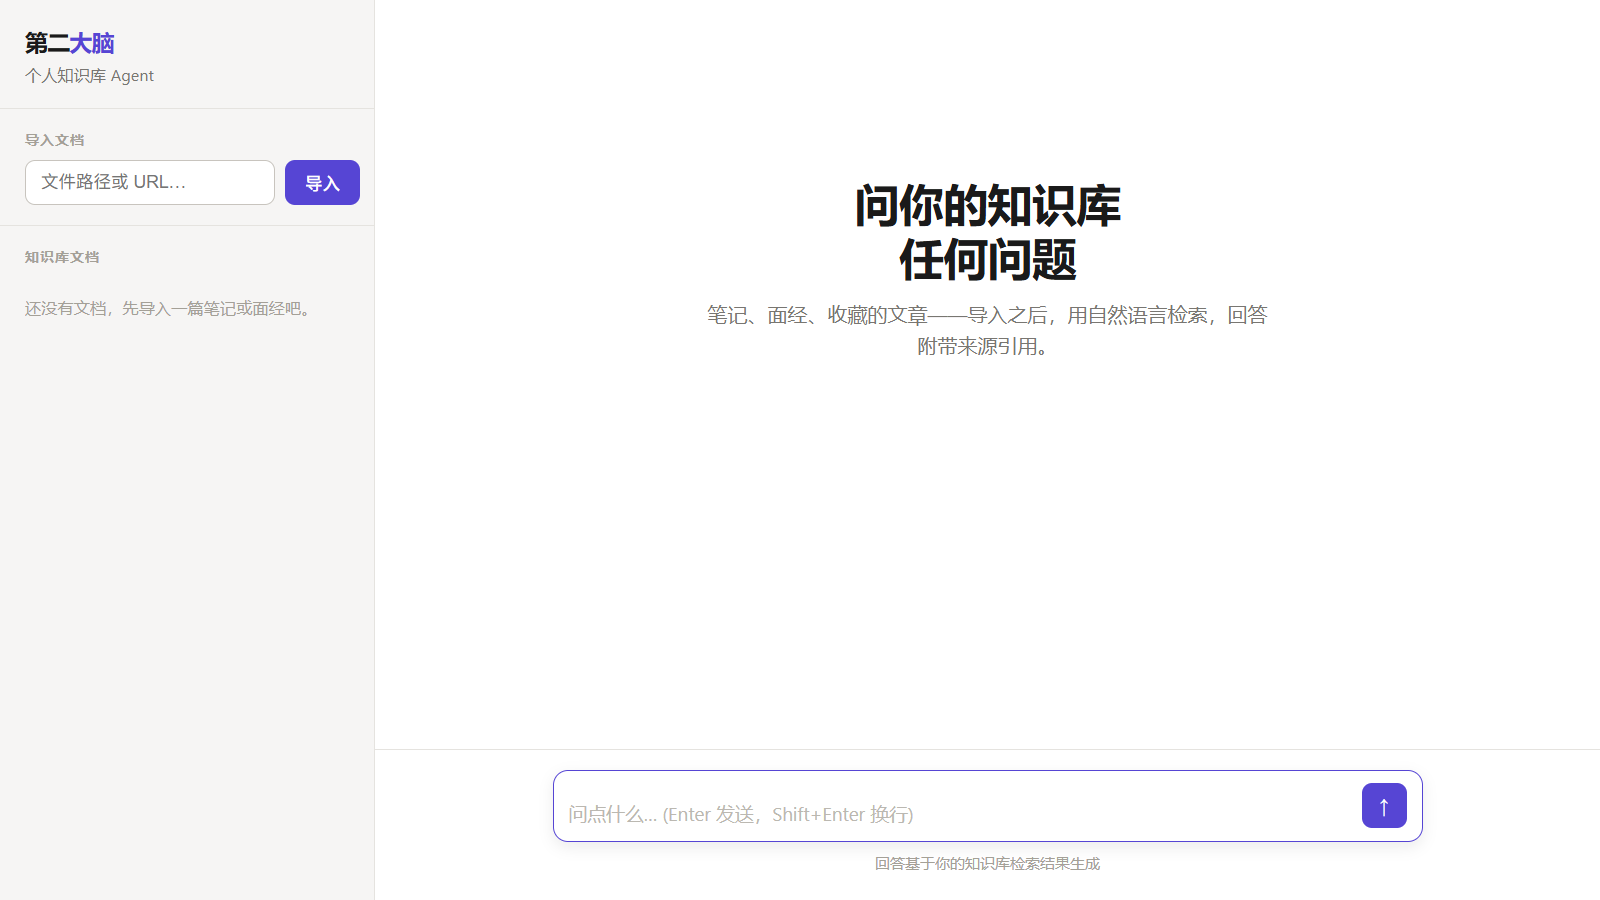
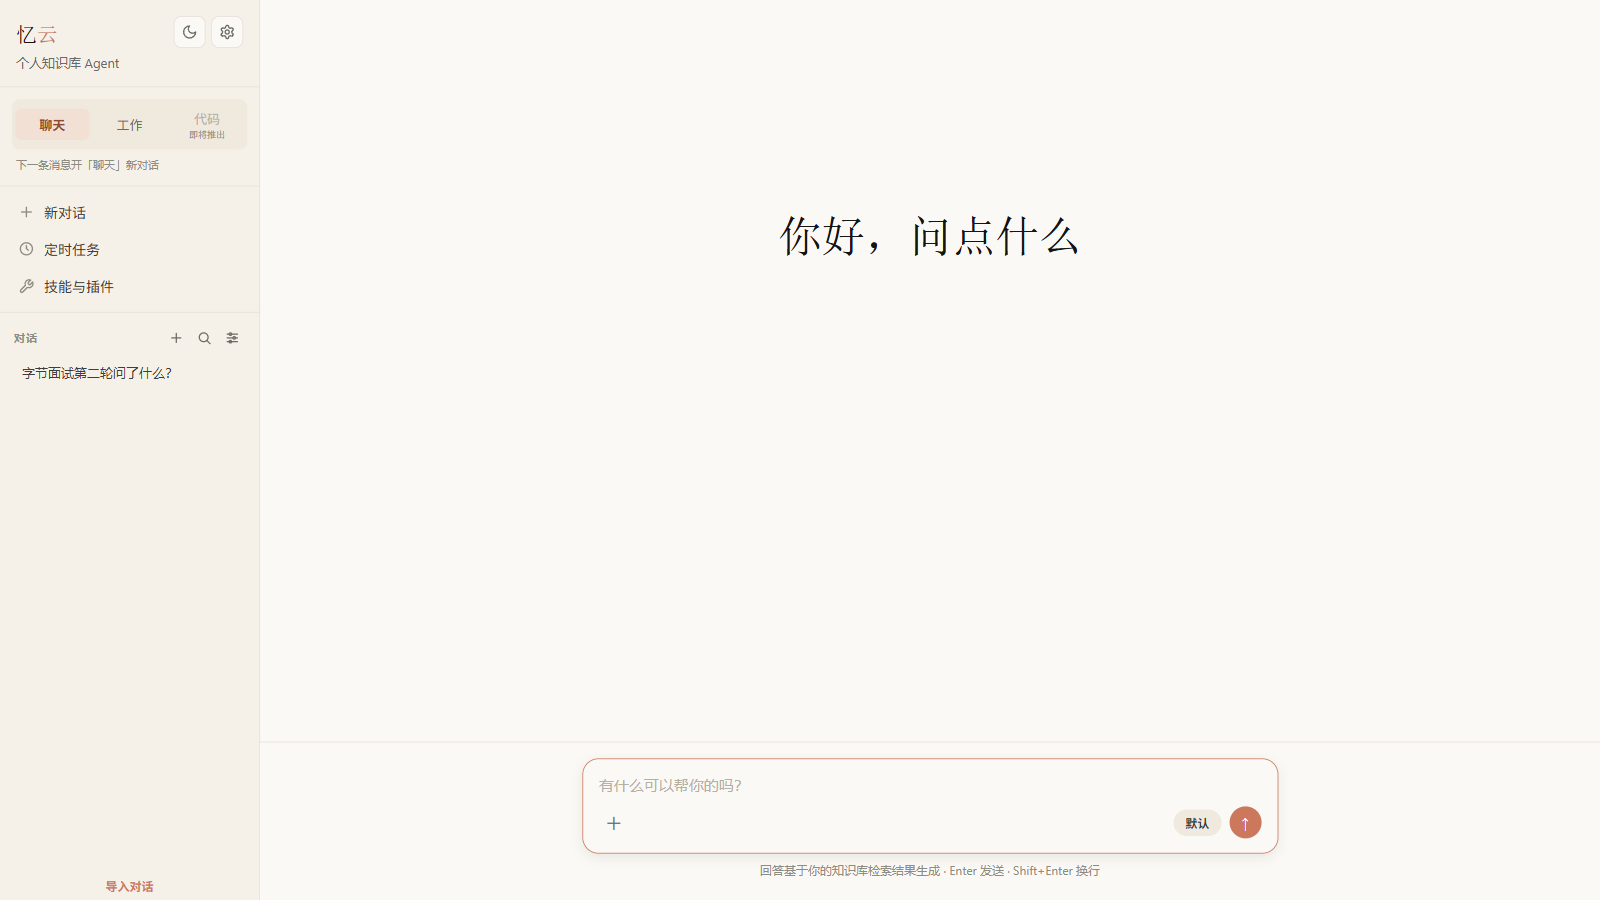
docs: refresh README, design notes and screenshots
- re-shoot demo screenshots (home / chat / settings / usage) after the
  sidebar and settings redesign; drop the stale documents.png
- README: three-mode sessions, scheduled tasks, cache/latency tracing,
  new API rows, updated structure and test count (600)
- design.md: record the three-mode / desktop / cron additions and the
  actual stack (SQLite + sqlite-vec, hand-written ReAct, traces table)
  versus the original PostgreSQL/Redis/LangGraph/OTEL plan
- resume-bullets: refresh measured numbers (49 commits, 6700+ lines,
  600 tests) and the observability bullet
- .gitignore: drop the stale spec entry, ignore .playwright-mcp/

diff --git a/docs/resume-bullets.md b/docs/resume-bullets.md
@@ -10,7 +10,7 @@
 
 ## 推荐 Bullets
 
-- 独立设计并实现个人知识管理 Agent 全链路：文档采集（文件/URL/PDF → 分块 → embedding）→ 混合检索 → ReAct Agent 运行时 → SSE 流式前端，共 30+ commits、3300+ 行实现代码、324 条自动化测试全绿
+- 独立设计并实现个人知识管理 Agent 全链路：文档采集（文件/URL/PDF → 分块 → embedding）→ 混合检索 → ReAct Agent 运行时 → SSE 流式前端，共 49 commits、6700+ 行实现代码、600 条自动化测试全绿
 
 - 实现三路混合检索（sqlite-vec 向量 + BM25 + 实体匹配，RRF 融合），检索模式可配置切换（hybrid/vector/bm25），为消融实验提供单因素对照基线
 
@@ -20,7 +20,7 @@
 
 - 实现 Skill 系统（渐进式披露）：SKILL.md 声明触发词与能力，命中后按需注入提示词并注册专用工具；内置 5 个技能，含简历体检与 JD 关键词缺口分析工具
 
-- 建立可观测体系：LLM/工具/skill 调用全量埋点（fire-and-forget 不阻塞主流程），按 provider 定价表估算成本，提供成本看板 API（过滤/分页/聚合）
+- 建立可观测体系：LLM/工具/skill 调用全量埋点（fire-and-forget 不阻塞主流程），记录 token、prompt 缓存命中与调用耗时，按 provider 定价表估算成本，设置页提供统计卡片 + 53 周用量热力图 + 请求日志
 
 - 构建评测框架与 38 条中文评测集（按 LoCoMo 分类：single-hop/multi-hop/temporal/跨会话偏好/对抗/长会话），实现 8 组消融矩阵（记忆×压缩×检索）验证各模块贡献，结果含 git commit 与配置快照可复现
 
@@ -28,7 +28,7 @@
 
 ## 面试问答备忘（数字的口径）
 
-- **"324 条测试"**：`python -m pytest tests/ -q` 实测。含大量变异测试（故意改回错误实现验证测试能抓住），不是凑数
+- **"600 条测试"**：`python -m pytest tests/ -q` 实测。含大量变异测试（故意改回错误实现验证测试能抓住），不是凑数
 - **"评测集 38 条"**：brief 原目标 150-300 条，无真实 API key 无法跑真实评测，故先建框架 + 高质量小规模集合；框架支持任意规模。分类比例严格对齐 LoCoMo
 - **消融数字**：本仓库未附真实 LLM 的消融结果（无 key）。面试时说"框架与评测集已就绪，消融矩阵可一键跑出"，比编数字安全
 - **token 成本**：成本看板的 token 数来自 provider 返回的 usage（真实）；上下文治理的 token 预算是字符估算（中文偏乐观 3-4 倍），两者口径不同，别混用
